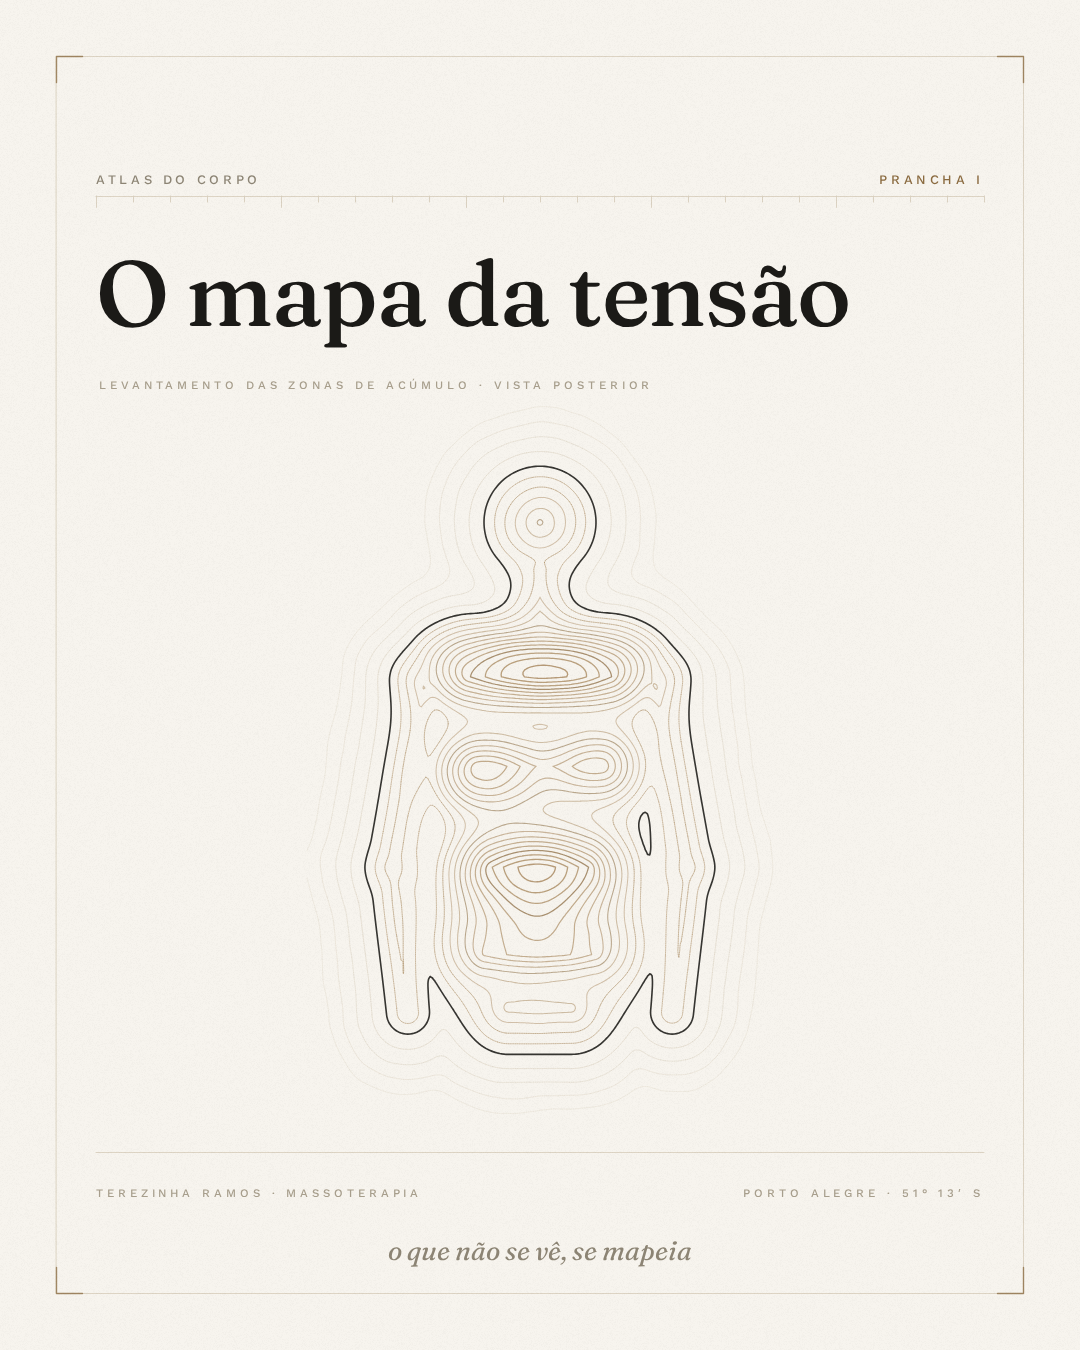
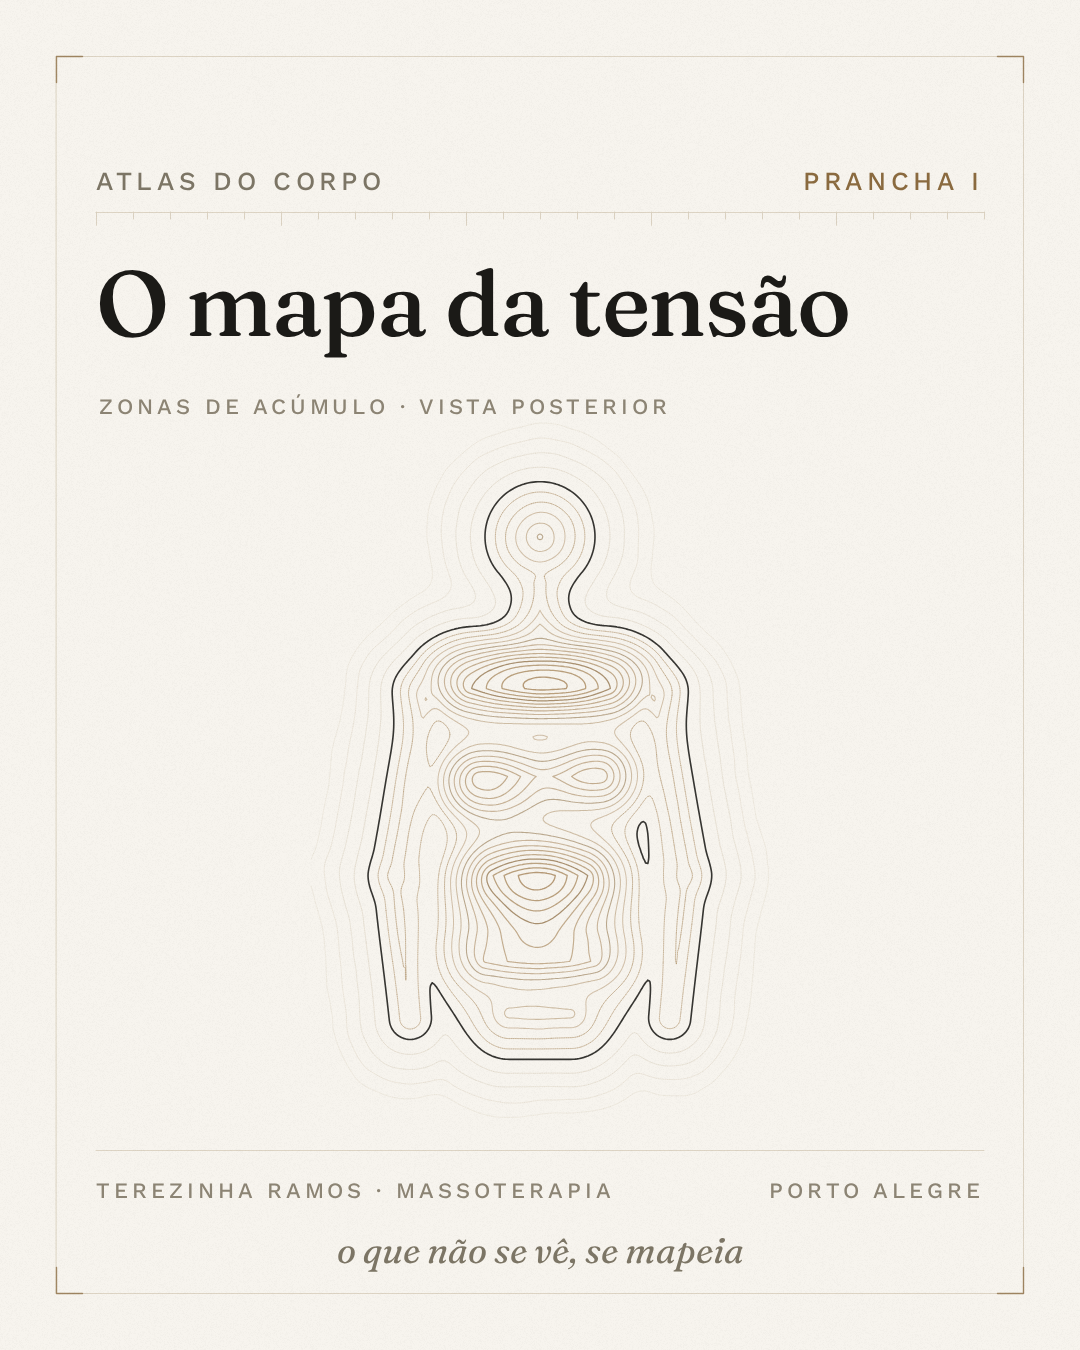
Aumenta a tipografia das pranchas para leitura no feed
As legendas clínicas estavam em 11 e 13 px sobre 1080 px de largura, o que
no celular fica ilegível. Sobem para 22 e 26 px, os nomes das zonas para
56 px, os tempos para 52 px e as frases em itálico para 34 px.

Com a tipografia maior os textos não cabiam mais nas mesmas posições, então
as composições foram refeitas: cabeçalhos e réguas descem, a coluna de
legendas da prancha II ganha largura e a nota técnica vai para o rodapé, a
roseta da prancha IV encolhe para abrir espaço ao contato. As linhas
clínicas também ficaram mais curtas e mais escuras, para caberem na
entrelinha e terem contraste suficiente.

Claude-Session: https://claude.ai/code/session_01H4qq5Z5PbTDdJfhXCdH13z

diff --git a/social/mapa-da-tensao/gerador/plate.html b/social/mapa-da-tensao/gerador/plate.html
@@ -27,11 +27,11 @@
 
   .mono{
     font-family:WorkSans,sans-serif;font-weight:500;
-    text-transform:uppercase;letter-spacing:.28em;
-    font-size:13px;color:var(--muted);
+    text-transform:uppercase;letter-spacing:.18em;
+    font-size:26px;color:#7C7565;
   }
   .mono.g{color:var(--gold-deep)}
-  .mono.s{font-size:11.5px;letter-spacing:.34em;color:#A79E8C}
+  .mono.s{font-size:22px;letter-spacing:.18em;color:#8C8474}
   .disp{font-family:Fraunces,serif;color:var(--ink);font-weight:500;letter-spacing:-.015em}
   .it{font-family:Fraunces,serif;font-style:italic;font-weight:400;color:var(--ink-soft)}
   .abs{position:absolute}
@@ -287,124 +287,123 @@ function T(cls, style, html){
    ============================================================ */
 function slide1(){
   frame();
-  hair(96,196,W-96,.9);
-  ticks(196,96,W-96,24,6);
+  hair(96,212,W-96,.9);
+  ticks(212,96,W-96,24,7);
 
-  drawFigure(540, 772, 1.12, HOT, {iv:4.8, step:2.0, outer:4});
+  drawFigure(540, 782, 1.10, HOT, {iv:4.8, step:2.0, outer:4});
 
-  hair(96,1152,W-96,.9);
+  hair(96,1150,W-96,.9);
 
-  T('mono','left:96px;top:172px', 'Atlas do corpo');
-  T('mono g','right:96px;top:172px;text-align:right', 'Prancha&nbsp;I');
+  T('mono','left:96px;top:166px', 'Atlas do corpo');
+  T('mono g','right:96px;top:166px;text-align:right', 'Prancha&nbsp;I');
 
-  T('disp','left:96px;top:248px;font-size:92px;line-height:.98;width:900px',
+  T('disp','left:96px;top:258px;font-size:92px;line-height:.98;width:900px',
     'O mapa da tensão');
-  T('mono s','left:99px;top:378px','Levantamento das zonas de acúmulo · vista posterior');
+  T('mono s','left:99px;top:394px','Zonas de acúmulo · vista posterior');
 
-  T('mono s','left:96px;top:1186px','Terezinha Ramos · Massoterapia');
-  T('mono s','right:96px;top:1186px;text-align:right','Porto Alegre · 51° 13′ S');
-  T('it','left:0;right:0;top:1234px;text-align:center;font-size:27px;color:#8C8474',
+  T('mono s','left:96px;top:1178px','Terezinha Ramos · Massoterapia');
+  T('mono s','right:96px;top:1178px;text-align:right','Porto Alegre');
+  T('it','left:0;right:0;top:1228px;text-align:center;font-size:36px;color:#7C7565',
     'o que não se vê, se mapeia');
 }
 
 function slide2(){
   frame();
-  hair(96,196,W-96,.9);
+  hair(96,212,W-96,.9);
 
-  const FX=762, FY=700, FS=1.15;
+  const FX=800, FY=720, FS=1.0;
   drawFigure(FX, FY, FS, HOT, {iv:5.0, step:2.0, outer:3});
 
   const toStage=(lx,ly)=>[FX+(lx-300)*FS, FY+(ly-307)*FS];
 
   const zonas=[
-    {n:'I',   nome:'Trapézio',  frase:'o peso das horas na tela',     lx:246, ly:216, ty:512},
-    {n:'II',  nome:'Escápulas', frase:'a respiração que ficou curta', lx:254, ly:302, ty:692},
-    {n:'III', nome:'Lombar',    frase:'a cadeira que não se levanta', lx:300, ly:408, ty:872}
+    {n:'I',   nome:'Trapézio',  frase:'o peso das horas na tela',     lx:246, ly:216, ty:470},
+    {n:'II',  nome:'Escápulas', frase:'a respiração que ficou curta', lx:254, ly:302, ty:668},
+    {n:'III', nome:'Lombar',    frase:'a cadeira que não se levanta', lx:300, ly:408, ty:866}
   ];
 
   zonas.forEach(z=>{
     const [hx,hy]=toStage(z.lx,z.ly);
-    const ly0=z.ty+54;
-    hair(96,ly0,436,.95,C.sand);
+    const ly0=z.ty+68;
+    hair(96,ly0,560,.95,C.sand);
     ctx.save();
     ctx.lineCap='butt';
-    ctx.strokeStyle=C.cream;ctx.globalAlpha=1;ctx.lineWidth=5;
-    ctx.beginPath();ctx.moveTo(436,Math.round(ly0)+.5);ctx.lineTo(hx-14,hy);ctx.stroke();
-    ctx.strokeStyle=C.goldDeep;ctx.globalAlpha=.62;ctx.lineWidth=1;
-    ctx.beginPath();ctx.moveTo(436,Math.round(ly0)+.5);ctx.lineTo(hx-14,hy);ctx.stroke();
+    ctx.strokeStyle=C.cream;ctx.globalAlpha=1;ctx.lineWidth=6;
+    ctx.beginPath();ctx.moveTo(572,Math.round(ly0)+.5);ctx.lineTo(hx-15,hy);ctx.stroke();
+    ctx.strokeStyle=C.goldDeep;ctx.globalAlpha=.62;ctx.lineWidth=1.2;
+    ctx.beginPath();ctx.moveTo(572,Math.round(ly0)+.5);ctx.lineTo(hx-15,hy);ctx.stroke();
     ctx.restore();
-    ctx.save();ctx.fillStyle=C.cream;ctx.beginPath();ctx.arc(hx,hy,10,0,7);ctx.fill();ctx.restore();
-    ring(hx,hy,10,C.goldDeep,1.3); dot(hx,hy,2.1);
+    ctx.save();ctx.fillStyle=C.cream;ctx.beginPath();ctx.arc(hx,hy,11,0,7);ctx.fill();ctx.restore();
+    ring(hx,hy,11,C.goldDeep,1.5); dot(hx,hy,2.4);
 
-    T('mono g','left:96px;top:'+(z.ty+2)+'px;font-size:12px', z.n);
-    T('disp','left:132px;top:'+(z.ty-14)+'px;font-size:42px', z.nome);
-    T('it','left:96px;top:'+(z.ty+70)+'px;width:330px;font-size:23px;line-height:1.32;color:#6B6558',
+    T('mono g','left:96px;top:'+(z.ty+10)+'px;font-size:22px', z.n);
+    T('disp','left:160px;top:'+(z.ty-18)+'px;font-size:56px', z.nome);
+    T('it','left:96px;top:'+(z.ty+84)+'px;width:470px;font-size:34px;line-height:1.3;color:#6B6558',
       z.frase);
   });
 
-  T('mono','left:96px;top:172px','Prancha II');
-  T('mono g','right:96px;top:172px;text-align:right','Três zonas');
-  T('disp','left:96px;top:240px;font-size:70px;line-height:1.02;width:600px','Onde a semana se acumula');
-  T('mono s','left:99px;top:402px','Equidistância constante · 5 mm por curva');
+  T('mono','left:96px;top:166px','Prancha II');
+  T('mono g','right:96px;top:166px;text-align:right','Três zonas');
+  T('disp','left:96px;top:250px;font-size:70px;line-height:1.02;width:600px','Onde a semana se acumula');
 
-  hair(96,1152,W-96,.9);
-  T('mono s','left:96px;top:1186px','Terezinha Ramos · Massoterapia');
-  T('mono s','right:96px;top:1186px;text-align:right','Fig. 2');
+  hair(96,1150,W-96,.9);
+  T('mono s','left:96px;top:1178px','Equidistância constante · 5 mm por curva');
+  T('mono s','right:96px;top:1178px;text-align:right','Fig. 2');
 }
 
 function slide3(){
   frame();
-  hair(96,196,W-96,.9);
+  hair(96,212,W-96,.9);
 
-  const ys=706, xs=[262,540,818];
+  const ys=712, xs=[262,540,818];
   const gains=[1,0.46,0.16];
   const labels=['0 min','30 min','60 min'];
   const marks=['I','II','III'];
 
   xs.forEach((x,i)=>{
     drawFigure(x, ys, 0.56, HOT, {gain:gains[i], iv:5.0, step:1.8, outer:3, lw:0.95, noise:3.4+2.6*gains[i]});
-    T('mono g','left:'+(x-140)+'px;width:280px;top:906px;text-align:center;font-size:12px', marks[i]);
-    T('disp','left:'+(x-140)+'px;width:280px;top:930px;text-align:center;font-size:36px', labels[i]);
+    T('mono g','left:'+(x-140)+'px;width:280px;top:900px;text-align:center;font-size:22px', marks[i]);
+    T('disp','left:'+(x-140)+'px;width:280px;top:928px;text-align:center;font-size:52px', labels[i]);
   });
 
-  hair(216,1022,864,.9);
-  xs.forEach((x,i)=>{ dot(x,1022.5,i===2?4.6:3.2, i===2?C.goldDeep:C.sand); });
+  hair(216,1042,864,.9);
+  xs.forEach((x,i)=>{ dot(x,1042.5,i===2?5:3.4, i===2?C.goldDeep:C.sand); });
 
-  T('mono','left:96px;top:172px','Prancha III');
-  T('mono g','right:96px;top:172px;text-align:right','Uma sessão');
-  T('disp','left:96px;top:240px;font-size:70px;line-height:1.02;width:640px','O mesmo corpo, outro relevo');
-  T('mono s','left:99px;top:402px','Mesma escala · mesma equidistância · leitura em três tempos');
+  T('mono','left:96px;top:166px','Prancha III');
+  T('mono g','right:96px;top:166px;text-align:right','Uma sessão');
+  T('disp','left:96px;top:250px;font-size:70px;line-height:1.02;width:640px','O mesmo corpo, outro relevo');
+  T('mono s','left:99px;top:426px','Mesma escala · três tempos');
 
-  hair(96,1152,W-96,.9);
-  T('it','left:96px;top:1180px;width:600px;font-size:27px;line-height:1.34',
+  hair(96,1150,W-96,.9);
+  T('it','left:96px;top:1176px;width:700px;font-size:34px;line-height:1.34',
     'A tensão não cede porque foi ignorada.<br>Ela cede porque foi encontrada.');
-  T('mono s','right:96px;top:1250px;text-align:right','Fig. 3');
+  T('mono s','right:96px;top:1186px;text-align:right','Fig. 3');
 }
 
 function slide4(){
   frame();
-  hair(96,196,W-96,.9);
+  hair(96,212,W-96,.9);
 
-  drawRosette(540, 484, 190);
+  drawRosette(540, 442, 168);
 
-  T('mono','left:96px;top:172px','Colofão');
-  T('mono g','right:96px;top:172px;text-align:right','Prancha IV');
+  T('mono','left:96px;top:166px','Colofão');
+  T('mono g','right:96px;top:166px;text-align:right','Prancha IV');
 
-  T('disp','left:0;right:0;top:790px;text-align:center;font-size:76px;line-height:1.14',
+  T('disp','left:0;right:0;top:718px;text-align:center;font-size:78px;line-height:1.14',
     'Chegue com dor.<br>Saia mais leve.');
 
-  hair(420,996,660,.95);
+  hair(430,948,650,.95);
 
-  T('disp','left:0;right:0;top:1026px;text-align:center;font-size:35px;letter-spacing:.01em',
+  T('disp','left:0;right:0;top:974px;text-align:center;font-size:52px;letter-spacing:.01em',
     'Terezinha Ramos');
-  T('mono s','left:0;right:0;top:1080px;text-align:center','Massoterapia desde 2009 · 5,0 em 28 avaliações no Google');
+  T('mono s','left:0;right:0;top:1052px;text-align:center','Massoterapia · desde 2009');
 
-  T('mono s','left:96px;top:1156px;line-height:2.15;letter-spacing:.26em;font-size:12px',
+  T('mono s','left:96px;top:1116px;line-height:2;font-size:22px',
     'R. José de Alencar, 658/306<br>Menino Deus · Porto Alegre');
-  T('mono s','right:96px;top:1156px;text-align:right;line-height:2.15;letter-spacing:.26em;font-size:12px',
+  T('mono s','right:96px;top:1116px;text-align:right;line-height:2;font-size:22px',
     'Seg a sex · 8h às 20h<br>Sábado · 8h às 18h');
 
-  T('mono g','left:0;right:0;top:1252px;text-align:center;font-size:12px;letter-spacing:.3em',
+  T('mono g','left:0;right:0;top:1238px;text-align:center;font-size:24px',
     '(51) 98958-2730 · terezinharamos.com.br');
 }
 
